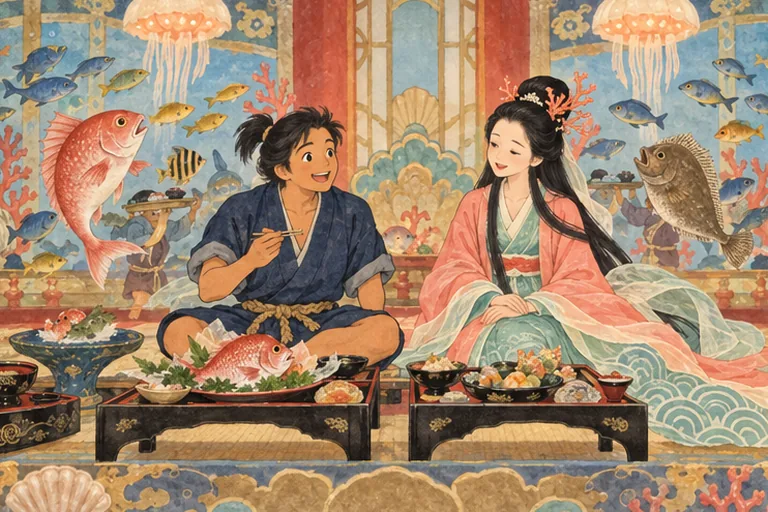
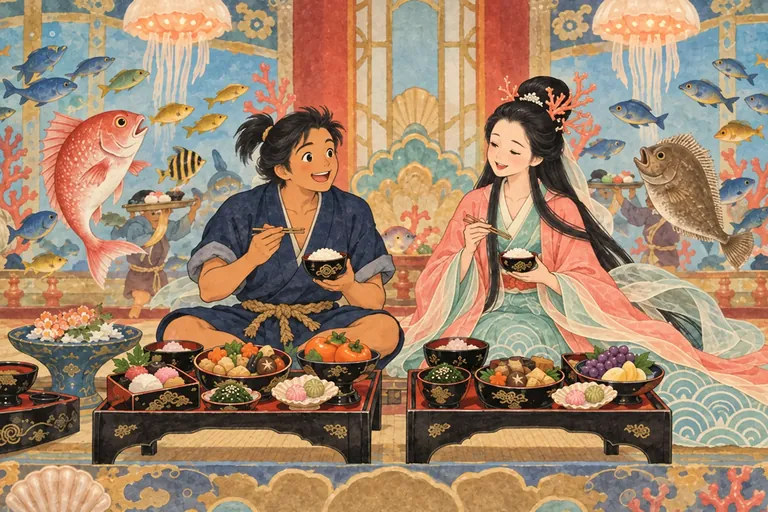
fix(japan-ehon): redraw eight pictures that did not match their text
A page-by-page picture-versus-text audit of seven Japanese books found one
clear mismatch and several smaller ones. Redraw these pictures to match
the story text and the neighbouring pages:

- urashima-taro/p02: Urashima pushes the turtle into the sea instead of
  riding it (the ride happens on p03)
- hanasaka-jiisan/p08: the wind carries ash out of his basket onto the
  bare tree, rather than him throwing it
- omusubi-kororin/p03: the singing mice stay hidden inside the hole
- momotaro/p10: the fallen oni chief is still sitting as Momotaro helps
  him up
- kaguya-hime/p08: the sky is as bright as day, and Kaguya-hime holds
  both parents' hands
- tsuru-no-ongaeshi/p01: no firewood on his back after selling it
- urashima-taro/p05: feast food without fish dishes
- issun-boshi/p03: thumb-sized on the old woman's palm, taking his
  needle sword

The art was generated locally with gpt-image-2.5-flare at medium quality,
then downscaled to 768x512 WEBP. Two small spots were touched up by hand:
a stray mark on a headband in momotaro/p10, and a fish in a flower bowl
in urashima-taro/p05.

Update the alt text (ja/zh/en) of every redrawn picture, and fix alt text
that did not describe its picture on momotaro/p04, kaguya-hime/p04 and
hanasaka-jiisan/p09. Story text and narration are unchanged.

diff --git a/japan-ehon/stories.js b/japan-ehon/stories.js
@@ -584,9 +584,9 @@
         "id": "p04",
         "image": "images/momotaro/p04.webp",
         "alt": {
-          "ja": "おおきく なって、おじいさんの まきわりを てつだう ももたろう",
-          "zh": "長大後，幫老爺爺劈柴的桃太郎",
-          "en": "Momotaro, grown up now, helping the old man split firewood"
+          "ja": "おおきく なって、まきの たばを せおって はこぶ ももたろうと、にこにこ みまもる おじいさんと おばあさん",
+          "zh": "長大後，背著一大捆柴的桃太郎，和笑咪咪看著他的老爺爺老奶奶",
+          "en": "Momotaro, grown up now, carrying a big bundle of firewood home as the old man and old woman smile"
         },
         "lines": [
           {
@@ -805,9 +805,9 @@
         "id": "p10",
         "image": "images/momotaro/p10.webp",
         "alt": {
-          "ja": "ころんだ おにの おやぶんを たすけおこす ももたろう",
-          "zh": "扶跌倒的鬼老大站起來的桃太郎",
-          "en": "Momotaro helping the fallen oni chief to his feet"
+          "ja": "ころんで すわりこんだ おにの おやぶんの てを とって、たすけおこす ももたろう",
+          "zh": "拉著跌坐在地上的鬼老大的手，扶他站起來的桃太郎",
+          "en": "Momotaro taking the hand of the fallen oni chief, who sits rubbing his head, to help him to his feet"
         },
         "lines": [
           {
@@ -1036,9 +1036,9 @@
         "id": "p04",
         "image": "images/kaguya-hime/p04.webp",
         "alt": {
-          "ja": "すだれの むこうの かぐやひめと、その まえに ならぶ ごにんの りっぱな おとこの ひと",
-          "zh": "竹簾後的輝夜姬，和排在她面前的五位貴公子",
-          "en": "Kaguya-hime behind a bamboo screen, with five finely dressed suitors lined up before her"
+          "ja": "まきあげた すだれの したに すわる かぐやひめと、その まえに ならぶ ごにんの りっぱな おとこの ひと",
+          "zh": "坐在捲起的竹簾下的輝夜姬，和跪在她面前的五位貴公子",
+          "en": "Kaguya-hime seated beneath rolled-up bamboo blinds, with five finely dressed suitors kneeling before her"
         },
         "lines": [
           {
@@ -1188,9 +1188,9 @@
         "id": "p08",
         "image": "images/kaguya-hime/p08.webp",
         "alt": {
-          "ja": "まんげつの よる、ひかる くもに のって おりて くる つきの ひとたちと、みあげる さんにん",
-          "zh": "月圓的晚上，乘著發光的雲降下來的月亮上的人，和抬頭看的三個人",
-          "en": "On the night of the full moon, the moon people come down on a glowing cloud as the three look up"
+          "ja": "ひるの ように あかるい まんげつの よる、ひかる くもに のって おりて くる つきの ひとたち。 かぐやひめは おじいさんと おばあさんの てを にぎって、そらを みあげる",
+          "zh": "亮得像白天一樣的月圓夜，月亮上的人乘著發光的雲降下來；輝夜姬牽著老爺爺和老奶奶的手，抬頭望著天空",
+          "en": "On the full-moon night, under a sky as bright as day, the moon people come down on a glowing cloud as Kaguya-hime holds the old man's and old woman's hands and looks up"
         },
         "lines": [
           {
@@ -1401,9 +1401,9 @@
         "id": "p02",
         "image": "images/urashima-taro/p02.webp",
         "alt": {
-          "ja": "こどもたちが みちを あけ、うらしまたろうが うみがめを うみへ かえす",
-          "zh": "小孩們讓出一條路，浦島太郎把海龜送回海裡",
-          "en": "The children make way as Urashima Taro helps the sea turtle back into the sea"
+          "ja": "こどもたちが みちを あけ、うらしまたろうが すなはまに しゃがんで、うみがめを そっと うみへ おして かえす",
+          "zh": "小孩們讓出一條路，浦島太郎蹲在沙灘上，輕輕把海龜推回海裡",
+          "en": "The children make way as Urashima Taro crouches on the sand and gently pushes the sea turtle back into the sea"
         },
         "lines": [
           {
@@ -1506,9 +1506,9 @@
         "id": "p05",
         "image": "images/urashima-taro/p05.webp",
         "alt": {
-          "ja": "たいや ひらめが おどる ごちそうの せきで たのしむ うらしまたろう",
-          "zh": "在鯛魚和比目魚跳舞的宴席上玩得很開心的浦島太郎",
-          "en": "Urashima Taro enjoying a feast while sea bream and flounder dance"
+          "ja": "たいや ひらめが おどる なか、ごはんや やさい、くだもの、おかしの ごちそうを おとひめさまと たのしむ うらしまたろう",
+          "zh": "鯛魚和比目魚在跳舞，浦島太郎和乙姬一起開心享用米飯、蔬菜、水果和點心",
+          "en": "Urashima Taro and Princess Otohime enjoying a feast of rice, vegetables, fruit, and sweets while sea bream and flounder dance"
         },
         "lines": [
           {
@@ -2064,9 +2064,9 @@
         "id": "p08",
         "image": "images/hanasaka-jiisan/p08.webp",
         "alt": {
-          "ja": "はいを かごに いれた おじいさん。 かぜで とんだ はいで、かれた さくらの きに はなが さく",
-          "zh": "提著一籃灰的老爺爺，風把灰吹到枯櫻花樹上，樹開滿了花",
-          "en": "The old man with a basket of ash as the wind blows it onto a bare cherry tree, which bursts into bloom"
+          "ja": "はいの かごを かかえて あるく おじいさん。 かぜが かごの はいを かれた さくらの きへ はこび、えだに はなが さきはじめる。 おじいさんと シロは びっくり",
+          "zh": "抱著一籃灰走路的老爺爺，風把籃裡的灰吹到枯櫻花樹上，樹枝開始開花，老爺爺和小白嚇了一跳",
+          "en": "As the old man walks home hugging his basket of ash, the wind carries ash from it onto a bare cherry tree, whose branches start to bloom while he and Shiro look on in surprise"
         },
         "lines": [
           {
@@ -2102,9 +2102,9 @@
         "id": "p09",
         "image": "images/hanasaka-jiisan/p09.webp",
         "alt": {
-          "ja": "さくらの きの うえで はいを まく おじいさん。 えだに はなが さき、はいの かごは きの ねもとに ある。 とのさまは ほうびの ふくろを もって よろこんで いる",
-          "zh": "老爺爺在櫻花樹上撒灰，樹枝開滿櫻花，灰籃放在樹下，領主大人拿著賞賜的小袋子高興地看著",
-          "en": "The old man scattering ash from a cherry tree as its branches burst into bloom; a basket of ash sits by the trunk, and the delighted lord watches with a reward pouch, his procession behind him"
+          "ja": "かごを うでに かけて さくらの きに のぼり、はいを まく おじいさん。 えだに はなが さき、うまの うえの とのさまが ほうびの ふくろを もって よろこんで いる",
+          "zh": "手臂掛著灰籃、爬上櫻花樹撒灰的老爺爺，樹枝開滿櫻花；騎在馬上的領主大人拿著賞賜的小袋子，高興地看著",
+          "en": "The old man, up in a cherry tree with his basket of ash on his arm, scattering ash as the branches burst into bloom; the delighted lord watches from his horse holding a reward pouch, his procession behind him"
         },
         "lines": [
           {
@@ -2342,9 +2342,9 @@
         "id": "p03",
         "image": "images/omusubi-kororin/p03.webp",
         "alt": {
-          "ja": "あなの そばに ひざを ついて みみを すませ、にっこり わらう おじいさん。 あなの おくに ちいさな ねずみたちの すがた",
-          "zh": "跪在洞口旁、豎起耳朵聽、笑咪咪的老爺爺，洞裡有小老鼠們的身影",
-          "en": "The old man kneeling by the hole, listening with a smile, as little mice appear inside the hole"
+          "ja": "あなの そばに ひざを ついて みみを すませ、にっこり わらう おじいさん。 くらい あなの おくから うたが きこえ、ちいさな ねずみの みみが のぞいて いる",
+          "zh": "跪在洞口旁、豎起耳朵聽、笑咪咪的老爺爺，歌聲從黑黑的洞裡傳出來，隱約看得到小老鼠的耳朵",
+          "en": "The old man kneeling by the hole, listening with a smile, as a song floats out of the dark hole where tiny mouse ears peek out"
         },
         "lines": [
           {
@@ -2792,9 +2792,9 @@
         "id": "p03",
         "image": "images/issun-boshi/p03.webp",
         "alt": {
-          "ja": "はりの かたなを こしに さした いっすんぼうしと、おわんと はしを わたす おじいさんと おばあさん",
-          "zh": "腰間插著針刀的一寸法師，和遞給他木碗和筷子的老爺爺老奶奶",
-          "en": "Issun-boshi with a needle sword at his waist, as the old couple hand him a bowl and a chopstick"
+          "ja": "おばあさんの てのひらに のった ゆびくらいの いっすんぼうしが、はりの かたなを うけとる。 おじいさんは おわんと はしを さしだす",
+          "zh": "站在老奶奶手掌上、像手指一樣小的一寸法師接過針做的刀，老爺爺拿著木碗和筷子",
+          "en": "Thumb-sized Issun-boshi standing on the old woman's palm as she hands him a needle sword, while the old man holds out a bowl and a chopstick"
         },
         "lines": [
           {
@@ -3166,9 +3166,9 @@
         "id": "p01",
         "image": "images/tsuru-no-ongaeshi/p01.webp",
         "alt": {
-          "ja": "ゆきの なか、なわの わなに かかった つるを みつける おじいさん",
-          "zh": "在雪地裡，發現鶴被繩圈陷阱困住的老爺爺",
-          "en": "The old man finding a crane caught in a rope snare in the snow"
+          "ja": "まきを うった かえりみち、ゆきの なかで つるの あしに かかった なわの わなを ほどこうと する おじいさん",
+          "zh": "賣完柴回家的路上，在雪地裡想解開鶴腳上繩圈陷阱的老爺爺",
+          "en": "On his way home from selling his firewood, the old man kneels in the snow to untie a rope snare from a crane's leg"
         },
         "lines": [
           {

diff --git a/japan-ehon/stories/05-hanasaka-jiisan.js b/japan-ehon/stories/05-hanasaka-jiisan.js
@@ -314,9 +314,9 @@
       "id": "p08",
       "image": "images/hanasaka-jiisan/p08.webp",
       "alt": {
-        "ja": "はいを かごに いれた おじいさん。 かぜで とんだ はいで、かれた さくらの きに はなが さく",
-        "zh": "提著一籃灰的老爺爺，風把灰吹到枯櫻花樹上，樹開滿了花",
-        "en": "The old man with a basket of ash as the wind blows it onto a bare cherry tree, which bursts into bloom"
+        "ja": "はいの かごを かかえて あるく おじいさん。 かぜが かごの はいを かれた さくらの きへ はこび、えだに はなが さきはじめる。 おじいさんと シロは びっくり",
+        "zh": "抱著一籃灰走路的老爺爺，風把籃裡的灰吹到枯櫻花樹上，樹枝開始開花，老爺爺和小白嚇了一跳",
+        "en": "As the old man walks home hugging his basket of ash, the wind carries ash from it onto a bare cherry tree, whose branches start to bloom while he and Shiro look on in surprise"
       },
       "lines": [
         {
@@ -352,9 +352,9 @@
       "id": "p09",
       "image": "images/hanasaka-jiisan/p09.webp",
       "alt": {
-        "ja": "さくらの きの うえで はいを まく おじいさん。 えだに はなが さき、はいの かごは きの ねもとに ある。 とのさまは ほうびの ふくろを もって よろこんで いる",
-        "zh": "老爺爺在櫻花樹上撒灰，樹枝開滿櫻花，灰籃放在樹下，領主大人拿著賞賜的小袋子高興地看著",
-        "en": "The old man scattering ash from a cherry tree as its branches burst into bloom; a basket of ash sits by the trunk, and the delighted lord watches with a reward pouch, his procession behind him"
+        "ja": "かごを うでに かけて さくらの きに のぼり、はいを まく おじいさん。 えだに はなが さき、うまの うえの とのさまが ほうびの ふくろを もって よろこんで いる",
+        "zh": "手臂掛著灰籃、爬上櫻花樹撒灰的老爺爺，樹枝開滿櫻花；騎在馬上的領主大人拿著賞賜的小袋子，高興地看著",
+        "en": "The old man, up in a cherry tree with his basket of ash on his arm, scattering ash as the branches burst into bloom; the delighted lord watches from his horse holding a reward pouch, his procession behind him"
       },
       "lines": [
         {

diff --git a/japan-ehon/stories/03-kaguya-hime.js b/japan-ehon/stories/03-kaguya-hime.js
@@ -156,9 +156,9 @@ module.exports = {
       "id": "p04",
       "image": "images/kaguya-hime/p04.webp",
       "alt": {
-        "ja": "すだれの むこうの かぐやひめと、その まえに ならぶ ごにんの りっぱな おとこの ひと",
-        "zh": "竹簾後的輝夜姬，和排在她面前的五位貴公子",
-        "en": "Kaguya-hime behind a bamboo screen, with five finely dressed suitors lined up before her"
+        "ja": "まきあげた すだれの したに すわる かぐやひめと、その まえに ならぶ ごにんの りっぱな おとこの ひと",
+        "zh": "坐在捲起的竹簾下的輝夜姬，和跪在她面前的五位貴公子",
+        "en": "Kaguya-hime seated beneath rolled-up bamboo blinds, with five finely dressed suitors kneeling before her"
       },
       "lines": [
         {
@@ -308,9 +308,9 @@ module.exports = {
       "id": "p08",
       "image": "images/kaguya-hime/p08.webp",
       "alt": {
-        "ja": "まんげつの よる、ひかる くもに のって おりて くる つきの ひとたちと、みあげる さんにん",
-        "zh": "月圓的晚上，乘著發光的雲降下來的月亮上的人，和抬頭看的三個人",
-        "en": "On the night of the full moon, the moon people come down on a glowing cloud as the three look up"
+        "ja": "ひるの ように あかるい まんげつの よる、ひかる くもに のって おりて くる つきの ひとたち。 かぐやひめは おじいさんと おばあさんの てを にぎって、そらを みあげる",
+        "zh": "亮得像白天一樣的月圓夜，月亮上的人乘著發光的雲降下來；輝夜姬牽著老爺爺和老奶奶的手，抬頭望著天空",
+        "en": "On the full-moon night, under a sky as bright as day, the moon people come down on a glowing cloud as Kaguya-hime holds the old man's and old woman's hands and looks up"
       },
       "lines": [
         {

diff --git a/japan-ehon/stories/04-urashima-taro.js b/japan-ehon/stories/04-urashima-taro.js
@@ -89,9 +89,9 @@ module.exports = {
       "id": "p02",
       "image": "images/urashima-taro/p02.webp",
       "alt": {
-        "ja": "こどもたちが みちを あけ、うらしまたろうが うみがめを うみへ かえす",
-        "zh": "小孩們讓出一條路，浦島太郎把海龜送回海裡",
-        "en": "The children make way as Urashima Taro helps the sea turtle back into the sea"
+        "ja": "こどもたちが みちを あけ、うらしまたろうが すなはまに しゃがんで、うみがめを そっと うみへ おして かえす",
+        "zh": "小孩們讓出一條路，浦島太郎蹲在沙灘上，輕輕把海龜推回海裡",
+        "en": "The children make way as Urashima Taro crouches on the sand and gently pushes the sea turtle back into the sea"
       },
       "lines": [
         {
@@ -194,9 +194,9 @@ module.exports = {
       "id": "p05",
       "image": "images/urashima-taro/p05.webp",
       "alt": {
-        "ja": "たいや ひらめが おどる ごちそうの せきで たのしむ うらしまたろう",
-        "zh": "在鯛魚和比目魚跳舞的宴席上玩得很開心的浦島太郎",
-        "en": "Urashima Taro enjoying a feast while sea bream and flounder dance"
+        "ja": "たいや ひらめが おどる なか、ごはんや やさい、くだもの、おかしの ごちそうを おとひめさまと たのしむ うらしまたろう",
+        "zh": "鯛魚和比目魚在跳舞，浦島太郎和乙姬一起開心享用米飯、蔬菜、水果和點心",
+        "en": "Urashima Taro and Princess Otohime enjoying a feast of rice, vegetables, fruit, and sweets while sea bream and flounder dance"
       },
       "lines": [
         {

diff --git a/japan-ehon/stories/02-momotaro.js b/japan-ehon/stories/02-momotaro.js
@@ -147,9 +147,9 @@ module.exports = {
       "id": "p04",
       "image": "images/momotaro/p04.webp",
       "alt": {
-        "ja": "おおきく なって、おじいさんの まきわりを てつだう ももたろう",
-        "zh": "長大後，幫老爺爺劈柴的桃太郎",
-        "en": "Momotaro, grown up now, helping the old man split firewood"
+        "ja": "おおきく なって、まきの たばを せおって はこぶ ももたろうと、にこにこ みまもる おじいさんと おばあさん",
+        "zh": "長大後，背著一大捆柴的桃太郎，和笑咪咪看著他的老爺爺老奶奶",
+        "en": "Momotaro, grown up now, carrying a big bundle of firewood home as the old man and old woman smile"
       },
       "lines": [
         {
@@ -368,9 +368,9 @@ module.exports = {
       "id": "p10",
       "image": "images/momotaro/p10.webp",
       "alt": {
-        "ja": "ころんだ おにの おやぶんを たすけおこす ももたろう",
-        "zh": "扶跌倒的鬼老大站起來的桃太郎",
-        "en": "Momotaro helping the fallen oni chief to his feet"
+        "ja": "ころんで すわりこんだ おにの おやぶんの てを とって、たすけおこす ももたろう",
+        "zh": "拉著跌坐在地上的鬼老大的手，扶他站起來的桃太郎",
+        "en": "Momotaro taking the hand of the fallen oni chief, who sits rubbing his head, to help him to his feet"
       },
       "lines": [
         {

diff --git a/japan-ehon/stories/06-omusubi-kororin.js b/japan-ehon/stories/06-omusubi-kororin.js
@@ -132,9 +132,9 @@
       "id": "p03",
       "image": "images/omusubi-kororin/p03.webp",
       "alt": {
-        "ja": "あなの そばに ひざを ついて みみを すませ、にっこり わらう おじいさん。 あなの おくに ちいさな ねずみたちの すがた",
-        "zh": "跪在洞口旁、豎起耳朵聽、笑咪咪的老爺爺，洞裡有小老鼠們的身影",
-        "en": "The old man kneeling by the hole, listening with a smile, as little mice appear inside the hole"
+        "ja": "あなの そばに ひざを ついて みみを すませ、にっこり わらう おじいさん。 くらい あなの おくから うたが きこえ、ちいさな ねずみの みみが のぞいて いる",
+        "zh": "跪在洞口旁、豎起耳朵聽、笑咪咪的老爺爺，歌聲從黑黑的洞裡傳出來，隱約看得到小老鼠的耳朵",
+        "en": "The old man kneeling by the hole, listening with a smile, as a song floats out of the dark hole where tiny mouse ears peek out"
       },
       "lines": [
         {

diff --git a/japan-ehon/stories/07-issun-boshi.js b/japan-ehon/stories/07-issun-boshi.js
@@ -132,9 +132,9 @@
       "id": "p03",
       "image": "images/issun-boshi/p03.webp",
       "alt": {
-        "ja": "はりの かたなを こしに さした いっすんぼうしと、おわんと はしを わたす おじいさんと おばあさん",
-        "zh": "腰間插著針刀的一寸法師，和遞給他木碗和筷子的老爺爺老奶奶",
-        "en": "Issun-boshi with a needle sword at his waist, as the old couple hand him a bowl and a chopstick"
+        "ja": "おばあさんの てのひらに のった ゆびくらいの いっすんぼうしが、はりの かたなを うけとる。 おじいさんは おわんと はしを さしだす",
+        "zh": "站在老奶奶手掌上、像手指一樣小的一寸法師接過針做的刀，老爺爺拿著木碗和筷子",
+        "en": "Thumb-sized Issun-boshi standing on the old woman's palm as she hands him a needle sword, while the old man holds out a bowl and a chopstick"
       },
       "lines": [
         {

diff --git a/japan-ehon/stories/08-tsuru-no-ongaeshi.js b/japan-ehon/stories/08-tsuru-no-ongaeshi.js
@@ -65,9 +65,9 @@
       "id": "p01",
       "image": "images/tsuru-no-ongaeshi/p01.webp",
       "alt": {
-        "ja": "ゆきの なか、なわの わなに かかった つるを みつける おじいさん",
-        "zh": "在雪地裡，發現鶴被繩圈陷阱困住的老爺爺",
-        "en": "The old man finding a crane caught in a rope snare in the snow"
+        "ja": "まきを うった かえりみち、ゆきの なかで つるの あしに かかった なわの わなを ほどこうと する おじいさん",
+        "zh": "賣完柴回家的路上，在雪地裡想解開鶴腳上繩圈陷阱的老爺爺",
+        "en": "On his way home from selling his firewood, the old man kneels in the snow to untie a rope snare from a crane's leg"
       },
       "lines": [
         {
